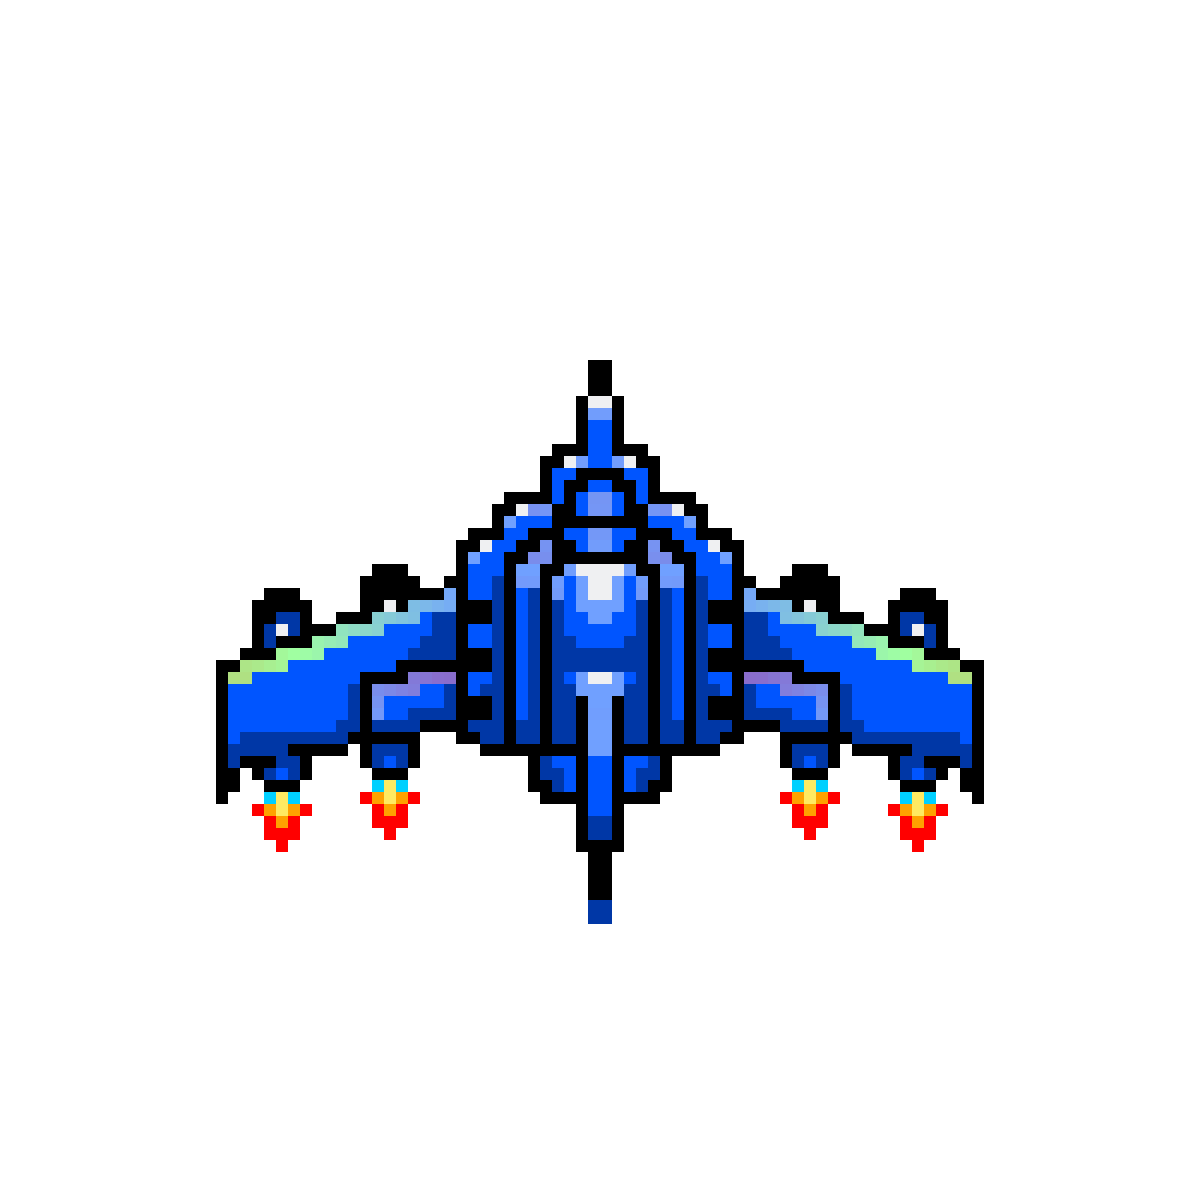
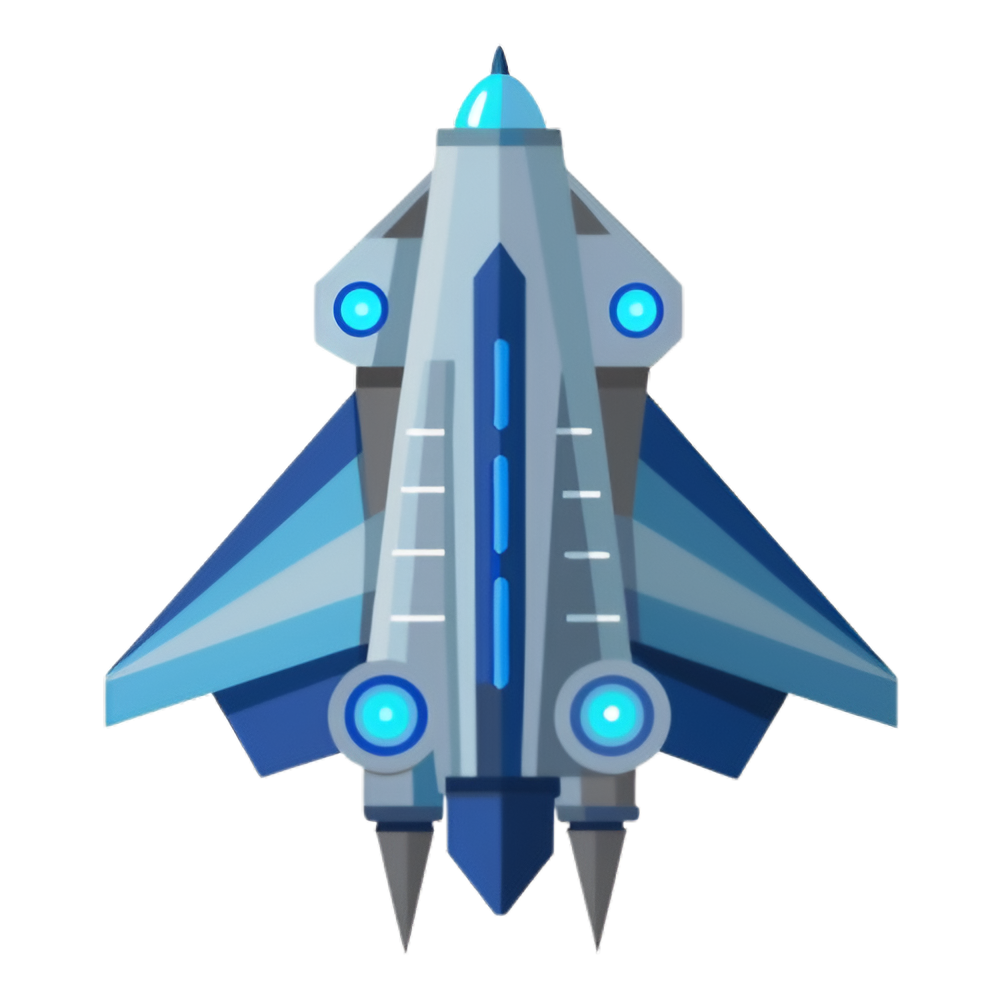
added scoring, explosion frames, and enhanced code

diff --git a/Code/main.py b/Code/main.py
@@ -1,11 +1,11 @@
 import pygame
-from random import randint, uniform
+from random import randint, uniform, choice
 
 class Player(pygame.sprite.Sprite):
     def __init__(self, groups):
         super().__init__(groups)
         self.image = pygame.image.load('Code/Images/Spaceship.png').convert_alpha()
-        self.image = pygame.transform.scale(self.image, (170,170))
+        self.image = pygame.transform.scale(self.image, (110,110))
         self.rect = self.image.get_frect(center = (WINDOW_WIDTH / 2, WINDOW_HEIGHT / 2))
         self.direction = pygame.Vector2()
         self.speed = 320
@@ -31,7 +31,7 @@ class Player(pygame.sprite.Sprite):
 
         last_key = pygame.key.get_just_pressed()
         if last_key[pygame.K_SPACE] and self.shoot:
-            laser_spawn_pos = (self.rect.midtop[0], self.rect.midtop[1] + 48)
+            laser_spawn_pos = (self.rect.midtop[0], self.rect.midtop[1] + 10)
             Laser(laser_surface, laser_spawn_pos, (all_sprites, laser_sprites))
             self.shoot = False
             self.laser_shot_time = pygame.time.get_ticks()
@@ -64,17 +64,38 @@ class Laser(pygame.sprite.Sprite):
 class Meteor(pygame.sprite.Sprite):
     def __init__(self, surf, pos, groups):
         super().__init__(groups)
-        self.image = self
+        self.image = surf
         self.image = pygame.transform.scale(meteor_surface, (120,120))
+        self.og = self.image
         self.rect = self.image.get_frect(center = pos)
         self.start_time = pygame.time.get_ticks()
         self.life = 3000
         self.direction = pygame.Vector2(uniform(-0.5, 0.5), 1)
-        self.speed = randint(380, 460)
+        self.speed = randint(400, 500)
+        self.rotation_speed = randint(35,85) * choice([-1, 1])
+        self.angle = 0
 
     def update(self, dt):
         self.rect.center += self.direction * self.speed * dt
         if pygame.time.get_ticks() - self.start_time >= self.life:
+            self.kill
+        self.angle += self.rotation_speed * dt
+        self.image = pygame.transform.rotozoom(self.og, self.angle, 1)
+        self.rect = self.image.get_frect(center = self.rect.center)
+
+class Boom(pygame.sprite.Sprite):
+    def __init__(self, frames, pos, groups):
+        super().__init__(groups)
+        self.frames = frames
+        self.frames_index = 0
+        self.image = self.frames[self.frames_index]
+        self.rect = self.image.get_frect(center = pos)
+
+    def update(self, dt):
+        self.frames_index += 25 * dt
+        if self.frames_index < len(self.frames):
+            self.image = self.frames[int(self.frames_index)]
+        else:
             self.kill
 
 def collision():
@@ -88,6 +109,15 @@ def collision():
         collided = pygame.sprite.spritecollide(laser, meteor_sprites, True, pygame.sprite.collide_mask)
         if collided:
             laser.kill()
+            Boom(boom_frames, laser.rect.midtop, all_sprites)
+
+def score():
+    time_now = pygame.time.get_ticks() // 100
+    text_surface = font.render(str(time_now), True, '#CED5EB')
+    text_rect = text_surface.get_frect(midbottom = (WINDOW_WIDTH / 2, WINDOW_HEIGHT - 50))
+    screen.blit(text_surface, text_rect)
+    pygame.draw.rect(screen, '#CED5EB', text_rect.inflate(20,20).move(0, +2), 5, 10)
+
 
 
 # setting up
@@ -99,10 +129,15 @@ run = True
 clock = pygame.time.Clock()
 
 
-# importing surfaces
+# importing stuff
 star_surf = pygame.image.load('Code/Images/Star.png').convert_alpha()
+star_surf.fill((213, 216, 237, 0), special_flags=pygame.BLEND_RGBA_ADD)
 laser_surface = pygame.image.load('Code/Images/Laser.png').convert_alpha()
 meteor_surface = pygame.image.load('Code/Images/Meteor.png').convert_alpha()
+font = pygame.font.Font('Code/Images/Lexend-Bold.ttf', 44)
+boom_frames = [pygame.image.load(f'Code/Images/Boom/{i}.png').convert_alpha() for i in range(21)]
+for frame in boom_frames:
+    frame.fill((117, 186, 255, 0), special_flags=pygame.BLEND_RGBA_ADD)
 
 
 # some sprites 
@@ -115,12 +150,12 @@ laser_sprites = pygame.sprite.Group()
 
 for i in range(20):
     Star(all_sprites, star_surf)
-player = Player(all_sprites)
 
+player = Player(all_sprites)
 
 # meteors stuff
 meteor_run = pygame.event.custom_type()
-pygame.time.set_timer(meteor_run, 600)
+pygame.time.set_timer(meteor_run, 500)
 
 
 while run:
@@ -141,8 +176,13 @@ while run:
     
     # draw
     screen.fill('#263652')
+    score()
     all_sprites.draw(screen)
+
 
     pygame.display.update()
 
 pygame.quit()
+
+# maybe a cool directing option where spaceship will have line pointing to astroid to hit that is circled by order
+# also 1 vers for mouse and 1 vers for keyboard only